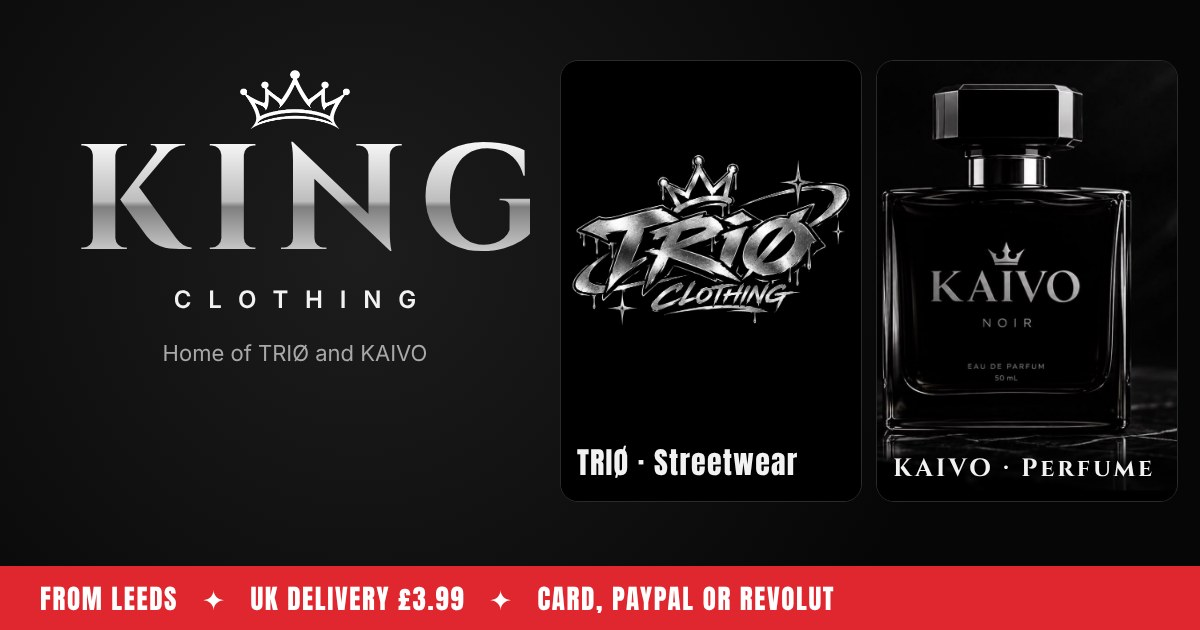
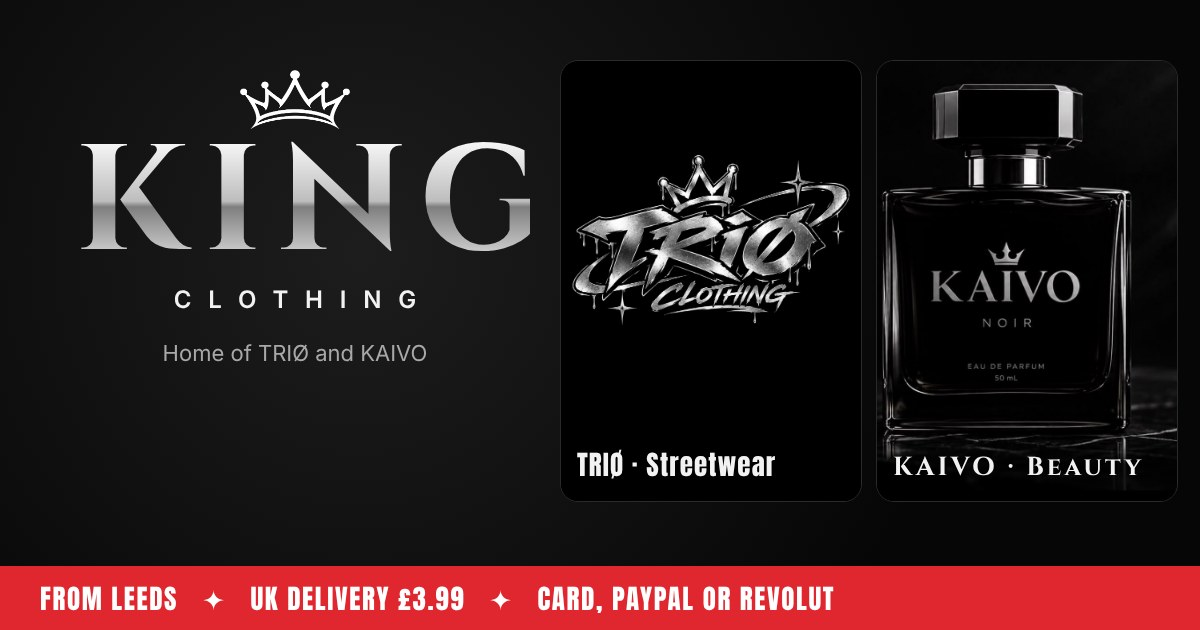
Add women's and kids' clothing and the KAIVO body care and beauty range
- Men / Women / Kids shop tiles, filters and nav links
- Women: Crown Crop Tee (£14), Crop Hoodie (£24), Crown Joggers (£22), UK 6–18
- Kids: Going Up Tee and Crown Tee (£12, ages 3–13); the youth hoodie is
  now the Kids Crown Hoodie; the unisex tee and anorak show for men and women
- KAIVO: deodorant, shower gel, body lotion, hand cream and lip balm, each
  in Noir (black) and Blanc (white), coming soon, with a range row in the
  KAIVO section
- Updated wording, sizes help, ticker and link preview

Claude-Session: https://claude.ai/code/session_01YM5X9KGYHkRm2HxqvfPrnB

Changed region(s): [[0.4625, 0.6937, 0.6783, 0.754], [0.74, 0.7238, 0.9558, 0.754]]

diff --git a/index.html b/index.html
@@ -4,13 +4,13 @@
 <meta charset="utf-8">
 <meta name="viewport" content="width=device-width, initial-scale=1">
 <title>KING Clothing · Home of TRIØ and KAIVO</title>
-<meta name="description" content="KING Clothing from Leeds: TRIØ streetwear, shoes and accessories, and KAIVO perfume.">
+<meta name="description" content="KING Clothing from Leeds: TRIØ streetwear for men, women and kids, and KAIVO perfume and beauty.">
 <link rel="icon" type="image/png" href="img/crown.png">
 <meta name="theme-color" content="#070707">
 <meta property="og:type" content="website">
 <meta property="og:site_name" content="KING Clothing">
 <meta property="og:title" content="KING Clothing · Home of TRIØ and KAIVO">
-<meta property="og:description" content="TRIØ streetwear and KAIVO perfume from Leeds. UK delivery £3.99.">
+<meta property="og:description" content="TRIØ streetwear for men, women and kids, and KAIVO perfume and beauty. From Leeds, UK delivery £3.99.">
 <meta property="og:url" content="https://sans-ctrl.github.io/trio.com/">
 <meta property="og:image" content="https://sans-ctrl.github.io/trio.com/img/share.jpg">
 <meta property="og:image:width" content="1200">
@@ -220,8 +220,19 @@ footer a{text-decoration:none;margin-right:16px}
 .kb img{width:100%;aspect-ratio:4/5;object-fit:cover;transition:transform .35s ease}
 @media(hover:hover){.kb:hover img{transform:scale(1.03)}}
 .kb span{display:block;padding:12px;font-family:Cinzel,Georgia,serif;font-weight:700;letter-spacing:.3em}
+.who{display:grid;grid-template-columns:repeat(3,minmax(0,1fr));gap:14px;margin:0 0 22px}
+.whocard{position:relative;display:block;background:#fff;border:0;border-radius:18px;overflow:hidden;aspect-ratio:16/10;cursor:pointer;color:#111;text-align:left;padding:0}
+.whocard img{position:absolute;right:4%;top:8%;height:84%;width:56%;object-fit:contain;transition:transform .35s ease}
+.whocard b{position:absolute;left:20px;bottom:44px;font-family:Anton,Impact,sans-serif;font-weight:400;font-size:clamp(28px,3.4vw,42px);letter-spacing:.02em}
+.whocard span{position:absolute;left:20px;bottom:18px;font-weight:700;font-size:14px}
+.whocard[aria-pressed=true]{outline:3px solid var(--red);outline-offset:3px}
+@media(hover:hover){.whocard:hover img{transform:scale(1.05)}}
+.krange{display:grid;grid-template-columns:repeat(auto-fill,minmax(min(170px,46%),1fr));gap:12px;margin-top:clamp(22px,3vw,34px)}
+.krange .kb span{font-size:13px;letter-spacing:.14em;padding:10px 8px}
+@media(min-width:900px){.krange{grid-template-columns:repeat(5,minmax(0,1fr))}}
+.krange h3{grid-column:1/-1;margin:0;font-family:Cinzel,Georgia,serif;font-weight:700;letter-spacing:.16em;font-size:18px;color:var(--ink)}
 @media(max-width:760px){.kgrid{grid-template-columns:minmax(0,1fr)}.brands{grid-template-columns:minmax(0,1fr)}.aboutcrown{max-width:180px!important}.modal.on{grid-template-columns:minmax(0,1fr)}.kingtxt,.about .wrap{grid-template-columns:minmax(0,1fr)}}
-@media(max-width:600px){.crow{flex-direction:column;gap:0}.pol{padding:6px 6px 2px}.look{gap:8px}.ticker span{font-size:17px}.links{order:3;width:100%;margin-left:0;gap:14px}.grid{grid-template-columns:repeat(2,minmax(0,1fr));gap:12px}.cbody{padding:10px 12px 12px}.cname{font-size:15px}.facts{grid-template-columns:minmax(0,1fr)}.info h3{font-size:28px}}
+@media(max-width:600px){.who{gap:8px}.whocard{aspect-ratio:4/5}.whocard img{left:10%;right:10%;top:5%;width:80%;height:50%}.whocard b{left:10px;bottom:28px;font-size:19px}.whocard span{left:10px;bottom:9px;font-size:11px}.crow{flex-direction:column;gap:0}.pol{padding:6px 6px 2px}.look{gap:8px}.ticker span{font-size:17px}.links{order:3;width:100%;margin-left:0;gap:14px}.grid{grid-template-columns:repeat(2,minmax(0,1fr));gap:12px}.cbody{padding:10px 12px 12px}.cname{font-size:15px}.facts{grid-template-columns:minmax(0,1fr)}.info h3{font-size:28px}}
 @media(max-width:600px){.photos{right:6px;bottom:6px;font-size:11px;padding:3px 8px}}
 @media(prefers-reduced-motion:reduce){html{scroll-behavior:auto}.drawer{transition:none}.ticker div{animation:none}.pol,.tile img{transition:none}}
 </style>
@@ -230,7 +241,7 @@ footer a{text-decoration:none;margin-right:16px}
 <nav aria-label="Main">
 <div class="navin">
 <a class="brand" href="#top"><img src="img/crown-t.png" alt=""><span class="kv">KING</span></a>
-<div class="links"><a href="#shop">Shop</a><a href="#trio">TRIØ</a><a href="#kaivo">KAIVO</a><a href="#king-1">KING 1</a></div>
+<div class="links"><a href="#shop" data-jump="Men">Men</a><a href="#shop" data-jump="Women">Women</a><a href="#shop" data-jump="Kids">Kids</a><a href="#kaivo">KAIVO</a><a href="#king-1">KING 1</a></div>
 <button class="bagbtn" id="openBag" type="button" aria-label="Open bag">
 <svg width="20" height="20" viewBox="0 0 24 24" fill="none" stroke="currentColor" stroke-width="2" stroke-linecap="round" stroke-linejoin="round" aria-hidden="true"><path d="M6 7h12l1 13H5L6 7z"></path><path d="M9 7a3 3 0 0 1 6 0"></path></svg>
 Bag <b id="bagCount">0</b>
@@ -241,22 +252,27 @@ Bag <b id="bagCount">0</b>
 <div class="wrap">
 <img class="kingmark" src="img/crown-t.png" alt="">
 <h1 class="kingname"><span class="chrome">KING</span><small>CLOTHING</small></h1>
-<p>Home of two brands from Leeds: TRIØ streetwear and KAIVO perfume.</p>
+<p>Home of two brands from Leeds: TRIØ streetwear for men, women and kids, and KAIVO perfume and beauty.</p>
 <div class="btns"><a class="btn red" href="#shop">Shop everything</a></div>
 <div class="brands">
-<a class="brandcard trio" href="#shop" data-jump="TRIØ"><img src="img/logo.jpg" alt="TRIØ Clothing"><span class="cap2"><span>Streetwear, shoes and accessories</span><em>Shop TRIØ →</em></span></a>
-<a class="brandcard kaivo" href="#kaivo"><img src="img/kaivo-mark.jpg" alt="KAIVO perfume"><span class="cap2"><span>Perfume · Noir and Blanc coming soon</span><em>See KAIVO →</em></span></a>
+<a class="brandcard trio" href="#shop" data-jump="TRIØ"><img src="img/logo.jpg" alt="TRIØ Clothing"><span class="cap2"><span>Men, women and kids · Shoes · Accessories</span><em>Shop TRIØ →</em></span></a>
+<a class="brandcard kaivo" href="#kaivo"><img src="img/kaivo-mark.jpg" alt="KAIVO perfume"><span class="cap2"><span>Perfume, body care and beauty · coming soon</span><em>See KAIVO →</em></span></a>
 </div>
 </div>
 </header>
-<div class="ticker" aria-label="KING Clothing. TRIØ Drop 01 out now. KAIVO perfume coming soon. Printed in Leeds. UK delivery £3.99. Pay with card, PayPal or Revolut.">
-<div aria-hidden="true"><span>KING Clothing&nbsp;&nbsp;✦&nbsp;&nbsp;TRIØ Drop 01 out now&nbsp;&nbsp;✦&nbsp;&nbsp;KAIVO perfume coming soon&nbsp;&nbsp;✦&nbsp;&nbsp;Printed in Leeds&nbsp;&nbsp;✦&nbsp;&nbsp;UK delivery £3.99&nbsp;&nbsp;✦&nbsp;&nbsp;Pay with card, PayPal or Revolut&nbsp;&nbsp;✦&nbsp;&nbsp;</span><span>KING Clothing&nbsp;&nbsp;✦&nbsp;&nbsp;TRIØ Drop 01 out now&nbsp;&nbsp;✦&nbsp;&nbsp;KAIVO perfume coming soon&nbsp;&nbsp;✦&nbsp;&nbsp;Printed in Leeds&nbsp;&nbsp;✦&nbsp;&nbsp;UK delivery £3.99&nbsp;&nbsp;✦&nbsp;&nbsp;Pay with card, PayPal or Revolut&nbsp;&nbsp;✦&nbsp;&nbsp;</span></div>
+<div class="ticker" aria-label="KING Clothing. TRIØ for men, women and kids. KAIVO perfume and beauty coming soon. Printed in Leeds. UK delivery £3.99. Pay with card, PayPal or Revolut.">
+<div aria-hidden="true"><span>KING Clothing&nbsp;&nbsp;✦&nbsp;&nbsp;TRIØ for men, women and kids&nbsp;&nbsp;✦&nbsp;&nbsp;KAIVO perfume and beauty coming soon&nbsp;&nbsp;✦&nbsp;&nbsp;Printed in Leeds&nbsp;&nbsp;✦&nbsp;&nbsp;UK delivery £3.99&nbsp;&nbsp;✦&nbsp;&nbsp;Pay with card, PayPal or Revolut&nbsp;&nbsp;✦&nbsp;&nbsp;</span><span>KING Clothing&nbsp;&nbsp;✦&nbsp;&nbsp;TRIØ for men, women and kids&nbsp;&nbsp;✦&nbsp;&nbsp;KAIVO perfume and beauty coming soon&nbsp;&nbsp;✦&nbsp;&nbsp;Printed in Leeds&nbsp;&nbsp;✦&nbsp;&nbsp;UK delivery £3.99&nbsp;&nbsp;✦&nbsp;&nbsp;Pay with card, PayPal or Revolut&nbsp;&nbsp;✦&nbsp;&nbsp;</span></div>
 </div>
 <section class="band shop" id="shop" aria-labelledby="shopTitle">
 <div class="wrap">
 <div class="shophead">
 <div><h2 class="disp" id="shopTitle">Shop the drop</h2><p class="note">TRIØ and KAIVO in one bag · Prices in GBP · UK delivery £3.99</p></div>
 <div class="chips" id="chips" role="group" aria-label="Filter products"></div>
+</div>
+<div class="who" role="group" aria-label="Shop for">
+<button class="whocard" type="button" data-cat="Men" aria-pressed="false"><img src="img/anorak.jpg" alt=""><b>Men</b><span>Shop now →</span></button>
+<button class="whocard" type="button" data-cat="Women" aria-pressed="false"><img src="img/women-crop-hoodie.jpg" alt=""><b>Women</b><span>Shop now →</span></button>
+<button class="whocard" type="button" data-cat="Kids" aria-pressed="false"><img src="img/kids-going-up-tee.jpg" alt=""><b>Kids</b><span>Shop now →</span></button>
 </div>
 <div class="grid" id="grid"></div>
 </div>
@@ -267,11 +283,11 @@ Bag <b id="bagCount">0</b>
 <div>
 <p class="eyebrow">A KING Clothing brand</p>
 <h2 class="disp" id="trioTitle">TRIØ · Crown on everything</h2>
-<p>TRIØ is the streetwear side of KING Clothing, from Leeds. The crown and the chrome TRIØ wordmark show up across the range, from caps and hoodies to powerbanks and puzzles.</p>
+<p>TRIØ is the streetwear side of KING Clothing, from Leeds, for men, women and kids. The crown and the chrome TRIØ wordmark show up across the range, from crop tees and hoodies to caps, powerbanks and puzzles.</p>
 <p>Everything is printed to order in Leeds and posted to you, so nothing sits in a warehouse and new designs can drop fast.</p>
 <div class="facts">
 <div><b>Leeds</b><span>Where it started</span></div>
-<div><b>8 pieces</b><span>In Drop 01</span></div>
+<div><b>For everyone</b><span>Men, women and kids</span></div>
 <div><b>Made to order</b><span>Printed when you buy</span></div>
 </div>
 <div class="btns" style="justify-content:flex-start;margin-top:18px"><a class="btn red" href="#shop" data-jump="TRIØ">Shop TRIØ</a><a class="btn" href="#king-1">See the KING 1</a></div>
@@ -489,14 +505,15 @@ Bag <b id="bagCount">0</b>
 <p class="eyebrow">A KING Clothing brand</p>
 <h2 class="kname chrome" id="kaivoTitle">KAIVO</h2>
 <p class="ktag">Leave your mark</p>
-<p>KAIVO is the perfume house of KING Clothing. The first two scents come in black and white glass: Noir and Blanc. Both are coming soon.</p>
-<div class="btns" style="justify-content:flex-start;margin-top:18px"><a class="btn red" href="#shop" data-jump="KAIVO">See the perfumes</a></div>
+<p>KAIVO is the perfume and beauty house of KING Clothing. Every product comes in two scents and two looks: Noir in black and Blanc in white. Perfume, deodorant, shower gel, body lotion, hand cream and lip balm are all coming soon.</p>
+<div class="btns" style="justify-content:flex-start;margin-top:18px"><a class="btn red" href="#shop" data-jump="KAIVO">Shop KAIVO</a></div>
 </div>
 <div class="kbottles">
 <button class="kb" type="button" data-open="kaivo-noir" aria-label="View KAIVO Noir"><img src="img/kaivo-noir.jpg" alt=""><span>NOIR</span></button>
 <button class="kb" type="button" data-open="kaivo-blanc" aria-label="View KAIVO Blanc"><img src="img/kaivo-blanc.jpg" alt=""><span>BLANC</span></button>
 </div>
 </div>
+<div class="krange" id="krange" aria-label="KAIVO body care and beauty"></div>
 </div>
 </section>
 <section class="band help" id="help" aria-labelledby="helpTitle">
@@ -505,7 +522,7 @@ Bag <b id="bagCount">0</b>
 <div class="helpgrid">
 <div><b>Delivery</b><p>TRIØ orders are printed in Leeds, then posted to you. UK delivery is £3.99. We only deliver in the UK for now.</p></div>
 <div><b>Paying</b><p id="payText">Pay with PayPal, a debit or credit card, or Revolut.</p></div>
-<div><b>Sizes</b><p>The tee and anorak come in unisex adult sizes. The hoodie comes in youth sizes, and the shoes in UK sizes.</p></div>
+<div><b>Sizes</b><p>Women's pieces come in UK 6 to 18, and kids' tees in ages 3 to 13. The kids' hoodie comes in youth S to XL. The unisex tee and anorak come in adult sizes, and the shoes in UK sizes.</p></div>
 <div><b>Returns</b><p>Changed your mind? You can cancel up to 14 days after your order arrives. <span class="contact"></span></p></div>
 </div>
 </div>
@@ -591,20 +608,33 @@ const REVOLUT_LINK = '';
 // ========================================
 
 const SIZES = ['XS', 'S', 'M', 'L', 'XL', '2XL', '3XL', '4XL', '5XL'];
+const WSIZES = ['UK 6', 'UK 8', 'UK 10', 'UK 12', 'UK 14', 'UK 16', 'UK 18'];
+const KSIZES = ['3–4 yrs', '5–6 yrs', '7–8 yrs', '9–10 yrs', '11–12 yrs', '13 yrs'];
+const NB = { label: 'Scent', options: ['Noir', 'Blanc'], photos: true, swatches: ['#0b0b0b', '#f4f4f4'] };
 const P = [
-  { id: 'tee', brand: 'TRIØ', name: 'Going Up Tee', type: 'Unisex Softstyle T-shirt', cat: 'Clothing', price: 15, imgs: ['img/tee.jpg', 'img/tee-model.jpg', 'img/tee-model2.jpg', 'img/tee-back.jpg', 'img/tee-side.jpg'], opts: '9 sizes · black', pick: { label: 'Size', options: SIZES }, desc: 'Black Softstyle tee with the "I\'m going up" stock chart printed on the front.' },
-  { id: 'hoodie', brand: 'TRIØ', name: 'Crown Hoodie', type: 'Youth Heavy Blend hooded sweatshirt', cat: 'Clothing', price: 22, imgs: ['img/hoodie.jpg', 'img/hoodie-back.jpg', 'img/hoodie-kid.jpg', 'img/hoodie-kid-back.jpg'], opts: '4 youth sizes · black', pick: { label: 'Size', options: ['Youth S', 'Youth M', 'Youth L', 'Youth XL'] }, desc: 'Black hoodie with the chrome TRIØ Clothing logo on the front and a big white crown on the back.' },
-  { id: 'anorak', brand: 'TRIØ', name: 'Zipped Pocket Anorak', type: 'Sport-Tek anorak', cat: 'Clothing', price: 35, imgs: ['img/anorak.jpg'], opts: '8 sizes · charcoal', pick: { label: 'Size', options: SIZES.slice(0, 8) }, desc: 'Charcoal pullover anorak with a zipped pocket and a small logo patch on the chest.' },
+  { id: 'tee', brand: 'TRIØ', for: ['Men', 'Women'], name: 'Going Up Tee', type: 'Unisex Softstyle T-shirt', cat: 'Clothing', price: 15, imgs: ['img/tee.jpg', 'img/tee-model.jpg', 'img/tee-model2.jpg', 'img/tee-back.jpg', 'img/tee-side.jpg'], opts: '9 sizes · black', pick: { label: 'Size', options: SIZES }, desc: 'Black Softstyle tee with the "I\'m going up" stock chart printed on the front.' },
+  { id: 'hoodie', brand: 'TRIØ', for: ['Kids'], name: 'Kids Crown Hoodie', type: 'Kids\' Heavy Blend hoodie', cat: 'Clothing', price: 22, imgs: ['img/hoodie.jpg', 'img/hoodie-back.jpg', 'img/hoodie-kid.jpg', 'img/hoodie-kid-back.jpg'], opts: 'Youth S–XL · black', pick: { label: 'Size', options: ['Youth S', 'Youth M', 'Youth L', 'Youth XL'] }, desc: 'Black hoodie with the chrome TRIØ Clothing logo on the front and a big white crown on the back.' },
+  { id: 'anorak', brand: 'TRIØ', for: ['Men', 'Women'], name: 'Zipped Pocket Anorak', type: 'Sport-Tek anorak', cat: 'Clothing', price: 35, imgs: ['img/anorak.jpg'], opts: '8 sizes · charcoal', pick: { label: 'Size', options: SIZES.slice(0, 8) }, desc: 'Charcoal pullover anorak with a zipped pocket and a small logo patch on the chest.' },
+  { id: 'w-crop-tee', brand: 'TRIØ', for: ['Women'], name: "Women's Crown Crop Tee", type: "Women's cropped T-shirt", cat: 'Clothing', price: 14, imgs: ['img/women-crop-tee.jpg'], opts: 'UK 6–18 · black', pick: { label: 'Size', options: WSIZES }, desc: 'Black fitted crop tee with the white TRIØ crown on the chest.' },
+  { id: 'w-crop-hoodie', brand: 'TRIØ', for: ['Women'], name: "Women's Crop Hoodie", type: "Women's cropped hoodie", cat: 'Clothing', price: 24, imgs: ['img/women-crop-hoodie.jpg'], opts: 'UK 6–18 · black', pick: { label: 'Size', options: WSIZES }, desc: 'Black cropped hoodie with the chrome TRIØ Clothing logo on the front.' },
+  { id: 'w-joggers', brand: 'TRIØ', for: ['Women'], name: "Women's Crown Joggers", type: "Women's joggers", cat: 'Clothing', price: 22, imgs: ['img/women-joggers.jpg'], opts: 'UK 6–18 · black', pick: { label: 'Size', options: WSIZES }, desc: 'Black cuffed joggers with a small white crown on the left leg.' },
+  { id: 'k-going-up', brand: 'TRIØ', for: ['Kids'], name: 'Kids Going Up Tee', type: "Kids' T-shirt", cat: 'Clothing', price: 12, imgs: ['img/kids-going-up-tee.jpg'], opts: 'Ages 3–13 · black', pick: { label: 'Size', options: KSIZES }, desc: 'Black kids tee with the "I\'m going up" stock chart printed on the front.' },
+  { id: 'k-crown-tee', brand: 'TRIØ', for: ['Kids'], name: 'Kids Crown Tee', type: "Kids' T-shirt", cat: 'Clothing', price: 12, imgs: ['img/kids-crown-tee.jpg'], opts: 'Ages 3–13 · white', pick: { label: 'Size', options: KSIZES }, desc: 'White kids tee with the black TRIØ crown on the chest.' },
   { id: 'cap', brand: 'TRIØ', name: 'Crown Snapback', type: 'Embroidered snapback cap', cat: 'Accessories', price: 22, imgs: ['img/cap.jpg', 'img/cap-grey.jpg', 'img/cap-white.jpg', 'img/cap-back.jpg', 'img/cap-model.jpg'], opts: 'One size · red, grey or white', pick: { label: 'Colour', options: ['Red', 'Grey', 'White'], photos: true, swatches: ['#c4122f', '#9b9b9b', '#ffffff'] }, desc: 'Snapback with a black flat peak and the crown embroidered on a black front patch.' },
-  { id: 'sneakers', brand: 'TRIØ', name: 'Mesh Sneakers', type: "Men's mesh sneakers", cat: 'Shoes', price: 55, imgs: ['img/sneakers.jpg', 'img/sneakers-side.jpg', 'img/sneakers-top.jpg', 'img/sneakers-heel.jpg'], opts: '9 sizes', pick: { label: 'Size', options: ['UK 5', 'UK 6', 'UK 7', 'UK 8', 'UK 9', 'UK 10', 'UK 11', 'UK 12', 'UK 13'] }, desc: 'Black mesh sneakers with a silver graffiti print.' },
-  { id: 'slippers', brand: 'TRIØ', name: 'Indoor Slippers', type: "Men's indoor slippers", cat: 'Shoes', price: 25, imgs: ['img/slippers.jpg'], opts: 'One size · black', desc: 'Black slip-on indoor slippers with a white lining.' },
+  { id: 'sneakers', brand: 'TRIØ', for: ['Men'], name: 'Mesh Sneakers', type: "Men's mesh sneakers", cat: 'Shoes', price: 55, imgs: ['img/sneakers.jpg', 'img/sneakers-side.jpg', 'img/sneakers-top.jpg', 'img/sneakers-heel.jpg'], opts: '9 sizes', pick: { label: 'Size', options: ['UK 5', 'UK 6', 'UK 7', 'UK 8', 'UK 9', 'UK 10', 'UK 11', 'UK 12', 'UK 13'] }, desc: 'Black mesh sneakers with a silver graffiti print.' },
+  { id: 'slippers', brand: 'TRIØ', for: ['Men'], name: 'Indoor Slippers', type: "Men's indoor slippers", cat: 'Shoes', price: 25, imgs: ['img/slippers.jpg'], opts: 'One size · black', desc: 'Black slip-on indoor slippers with a white lining.' },
   { id: 'powerbank', brand: 'TRIØ', name: 'Crown Powerbank', type: 'Magnetic powerbank', cat: 'Accessories', price: 28, imgs: ['img/powerbank.jpg'], opts: 'Black · magnetic', desc: 'Magnetic phone powerbank in black with the white crown.' },
   { id: 'puzzle', brand: 'TRIØ', name: 'TRIØ Jigsaw Puzzle', type: 'Jigsaw puzzle with tin', cat: 'Accessories', price: 18, imgs: ['img/puzzle.jpg', 'img/puzzle-pieces.jpg', 'img/puzzle-tin.jpg'], opts: 'Comes in a tin', desc: 'Jigsaw puzzle of the chrome TRIØ logo. Comes in a tin.' },
   // KAIVO perfumes are "coming soon": shown on the site but not for sale until soon is removed and a price is added.
   { id: 'kaivo-noir', brand: 'KAIVO', name: 'KAIVO Noir', type: 'Eau de parfum · 50 ml', cat: 'Perfume', soon: true, dark: true, price: 0, imgs: ['img/kaivo-noir.jpg', 'img/kaivo-noir-wide.jpg'], opts: 'Black glass · 50 ml', desc: 'Black glass bottle with a faceted black cap and the silver KAIVO crown. Scent and price coming soon.' },
-  { id: 'kaivo-blanc', brand: 'KAIVO', name: 'KAIVO Blanc', type: 'Eau de parfum · 50 ml', cat: 'Perfume', soon: true, dark: true, price: 0, imgs: ['img/kaivo-blanc.jpg', 'img/kaivo-blanc-wide.jpg'], opts: 'White glass · 50 ml', desc: 'White glass bottle with a white faceted cap and the KAIVO crown. Scent and price coming soon.' }
+  { id: 'kaivo-blanc', brand: 'KAIVO', name: 'KAIVO Blanc', type: 'Eau de parfum · 50 ml', cat: 'Perfume', soon: true, dark: true, price: 0, imgs: ['img/kaivo-blanc.jpg', 'img/kaivo-blanc-wide.jpg'], opts: 'White glass · 50 ml', desc: 'White glass bottle with a white faceted cap and the KAIVO crown. Scent and price coming soon.' },
+  { id: 'kaivo-deo', brand: 'KAIVO', name: 'KAIVO Deodorant', type: 'Body spray · 150 ml', cat: 'Beauty', soon: true, dark: true, price: 0, imgs: ['img/kaivo-deo-noir.jpg', 'img/kaivo-deo-blanc.jpg'], opts: 'Noir or Blanc · 150 ml', pick: NB, desc: 'Deodorant body spray in the Noir or Blanc scent. Black can for Noir, white can for Blanc. Price coming soon.' },
+  { id: 'kaivo-gel', brand: 'KAIVO', name: 'KAIVO Shower Gel', type: 'Shower gel · 250 ml', cat: 'Beauty', soon: true, dark: true, price: 0, imgs: ['img/kaivo-gel-noir.jpg', 'img/kaivo-gel-blanc.jpg'], opts: 'Noir or Blanc · 250 ml', pick: NB, desc: 'Shower gel in the Noir or Blanc scent, in a black or white flip-cap bottle. Price coming soon.' },
+  { id: 'kaivo-lotion', brand: 'KAIVO', name: 'KAIVO Body Lotion', type: 'Body lotion · 200 ml', cat: 'Beauty', soon: true, dark: true, price: 0, imgs: ['img/kaivo-lotion-noir.jpg', 'img/kaivo-lotion-blanc.jpg'], opts: 'Noir or Blanc · 200 ml', pick: NB, desc: 'Body lotion in the Noir or Blanc scent, in a pump bottle with a chrome pump. Price coming soon.' },
+  { id: 'kaivo-cream', brand: 'KAIVO', name: 'KAIVO Hand Cream', type: 'Hand cream · 75 ml', cat: 'Beauty', soon: true, dark: true, price: 0, imgs: ['img/kaivo-cream-noir.jpg', 'img/kaivo-cream-blanc.jpg'], opts: 'Noir or Blanc · 75 ml', pick: NB, desc: 'Hand cream in the Noir or Blanc scent, in a black or white tube. Price coming soon.' },
+  { id: 'kaivo-balm', brand: 'KAIVO', name: 'KAIVO Lip Balm', type: 'Lip balm', cat: 'Beauty', soon: true, dark: true, price: 0, imgs: ['img/kaivo-balm-noir.jpg', 'img/kaivo-balm-blanc.jpg'], opts: 'Black or white', pick: { label: 'Style', options: ['Noir', 'Blanc'], photos: true, swatches: ['#0b0b0b', '#f4f4f4'] }, desc: 'Lip balm in a black Noir or white Blanc case with a chrome band. Price coming soon.' }
 ];
-const CATS = ['All', 'TRIØ', 'KAIVO', 'Clothing', 'Shoes', 'Accessories'];
+const CATS = ['All', 'Men', 'Women', 'Kids', 'Shoes', 'Accessories', 'KAIVO'];
 const HAS_PP = !!PAYPAL_CLIENT_ID;
 const HAS_REV = /^https:\/\/revolut\.me\/[A-Za-z0-9._-]+\/?$/.test(REVOLUT_LINK) && /^\S+@\S+\.\S+$/.test(CONTACT_EMAIL);
 const $ = (id) => document.getElementById(id);
@@ -629,7 +659,8 @@ function renderChips() {
   $('chips').innerHTML = CATS.map((c) => '<button class="chip" type="button" data-cat="' + c + '" aria-pressed="' + (c === filter) + '">' + c + '</button>').join('');
 }
 function renderGrid() {
-  const list = P.filter((p) => filter === 'All' || p.cat === filter || p.brand === filter);
+  const list = P.filter((p) => filter === 'All' || p.cat === filter || p.brand === filter || (p.for || []).includes(filter));
+  document.querySelectorAll('.whocard').forEach((b) => b.setAttribute('aria-pressed', String(b.dataset.cat === filter)));
   $('grid').innerHTML = list.map((p) => '<article class="card">' +
     '<button class="tile' + (p.dark ? ' dark' : '') + '" type="button" data-open="' + p.id + '" aria-label="View ' + p.name + '"><img src="' + p.imgs[0] + '" alt="' + p.name + '" loading="lazy"' + (p.imgs[1] ? ' class="has-alt"' : '') + '>' +
     (p.imgs[1] ? '<img class="alt" src="' + p.imgs[1] + '" alt="" loading="lazy">' : '') + (p.soon ? '<span class="tag soon">Coming soon</span>' : p.tag ? '<span class="tag">' + p.tag + '</span>' : '') +
@@ -644,11 +675,15 @@ function renderGrid() {
     '</div></article>').join('');
 }
 function renderLook() {
-  const LOOK = [['tee', 'img/tee-model2.jpg'], ['hoodie', 'img/hoodie.jpg'], ['cap', 'img/cap.jpg']];
+  const LOOK = [['tee', 'img/tee-model2.jpg'], ['w-crop-hoodie', 'img/women-crop-hoodie.jpg'], ['hoodie', 'img/hoodie-kid.jpg']];
   $('look').innerHTML = LOOK.map(([id, img]) => {
     const p = find(id);
     return '<button class="pol" type="button" data-open="' + id + '" aria-label="View ' + p.name + ', ' + gbp(p.price) + '"><img src="' + img + '" alt=""><span>' + p.name + ' <b>' + gbp(p.price) + '</b></span></button>';
   }).join('');
+}
+function renderRange() {
+  const items = P.filter((p) => p.brand === 'KAIVO' && p.cat === 'Beauty');
+  $('krange').innerHTML = '<h3>Body care and beauty</h3>' + items.map((p) => '<button class="kb" type="button" data-open="' + p.id + '" aria-label="View ' + p.name + '"><img src="' + p.imgs[0] + '" alt="" loading="lazy"><span>' + p.name.replace('KAIVO ', '').toUpperCase() + '</span></button>').join('');
 }
 function renderContact() {
   const mail = CONTACT_EMAIL ? '<a href="mailto:' + CONTACT_EMAIL + '">' + CONTACT_EMAIL + '</a>' : '';
@@ -710,7 +745,7 @@ function openModal(id) {
   $('mWarn').textContent = '';
   if (cur.pick) {
     $('mPickWrap').hidden = false;
-    $('mPickLab').textContent = 'Pick a ' + cur.pick.label.toLowerCase();
+    $('mPickLab').textContent = cur.soon ? cur.pick.label + 's' : 'Pick a ' + cur.pick.label.toLowerCase();
     $('mPick').innerHTML = cur.pick.options.map((o) => '<button type="button" data-pick="' + o + '" aria-pressed="false">' + o + '</button>').join('');
   } else {
     $('mPickWrap').hidden = true;
@@ -963,6 +998,7 @@ renderChips();
 renderGrid();
 renderBag();
 renderLook();
+renderRange();
 renderContact();
 }
 </script>
